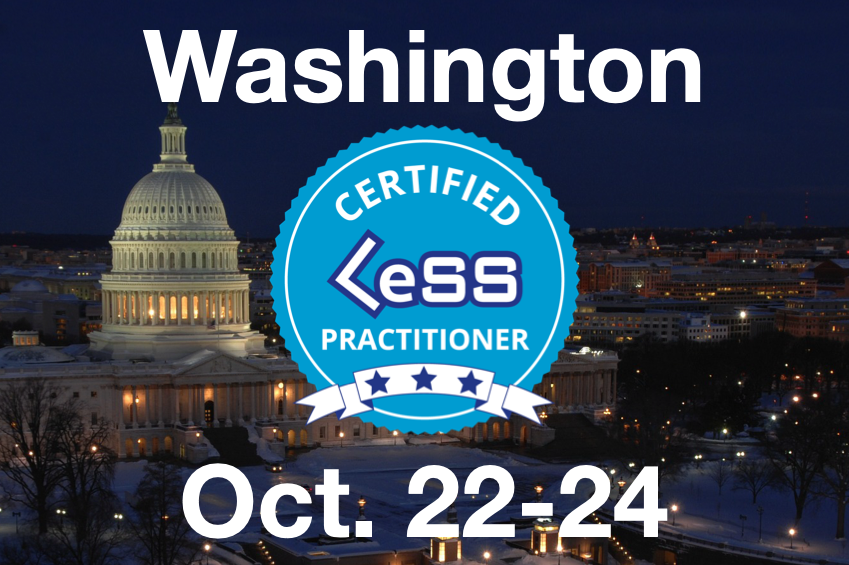
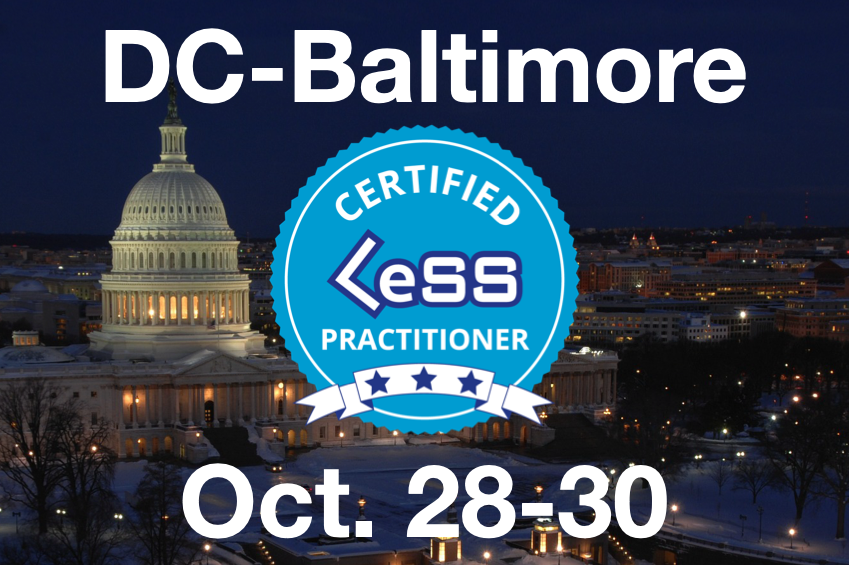
shifted dates to following week

Changed region(s): [[0.1225, 0.0301, 0.8881, 0.2106], [0.6431, 0.8124, 0.7962, 0.9628], [0.5206, 0.8425, 0.6125, 0.9628]]

diff --git a/clp/washington_dc_fall_2024.md b/clp/washington_dc_fall_2024.md
@@ -1,19 +1,19 @@
 ---
 title: Washington DC - Baltimore Certified LeSS Practitioner Course Fall 2024
-image: /assets/images/clp/DistrictOfColumbiaCLPWebsitePageHeaderOct22_24_2024.png
+image: /assets/images/clp/DistrictOfColumbiaCLPWebsitePageHeaderOct28_30_2024.png
 ogimage: /assets/images/clp/DistrictOfColumbiaCLPWebsitePageHeaderNoDatesOgImage.png
 author: James
 layout: book
 trainingevent:
-  startDate: "2024-10-22T08:30-05:00"
-  endDate: "2024-10-24T18:00-05:00"
+  startDate: "2024-10-28T08:30-05:00"
+  endDate: "2024-10-30T18:00-05:00"
   location:
     name: "TBD"
     address:
       streetAddress: "TBD"
-      addressLocality: "Washington, DC"
-      postalCode: "20002"
-      addressRegion: "DC"
+      addressLocality: "Baltimore, MD"
+      postalCode: "21201"
+      addressRegion: "MD"
       addressCountry: "US"
   images:
     - /assets/images/clp/CLP_Event_1_1_aspect_ratio.png
@@ -31,7 +31,7 @@ trainingevent:
     url: "https://agilecarpentry.com"
 ---
 
-<a class="wx-button" href="https://agilecarpentry.ticketspice.com/washington-dc-certified-less-practitioner-fall-2024" style="background:rgba(36,36,36,1);color:white;padding:10px 20px;text-decoration:none;font-weight:bold;" target="_blank">October 22-24: Get Tickets</a>
+<a class="wx-button" href="https://agilecarpentry.ticketspice.com/washington-dc-certified-less-practitioner-fall-2024" style="background:rgba(36,36,36,1);color:white;padding:10px 20px;text-decoration:none;font-weight:bold;" target="_blank">October 28-30: Get Tickets</a>
 
 {% include_relative _includes/course_agenda.md %}
 
@@ -48,7 +48,7 @@ Lunch each day is included in the price of the course.
 
 # Tickets
 
-<a class="wx-button" href="https://agilecarpentry.ticketspice.com/washington-dc-certified-less-practitioner-fall-2024" style="background:rgba(36,36,36,1);color:white;padding:10px 20px;text-decoration:none;font-weight:bold;" target="_blank">October 22-24: Get Tickets</a>
+<a class="wx-button" href="https://agilecarpentry.ticketspice.com/washington-dc-certified-less-practitioner-fall-2024" style="background:rgba(36,36,36,1);color:white;padding:10px 20px;text-decoration:none;font-weight:bold;" target="_blank">October 28-30: Get Tickets</a>
 
 
 
